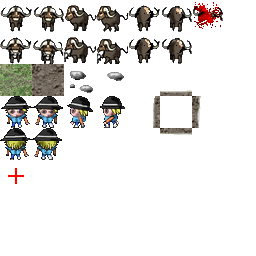
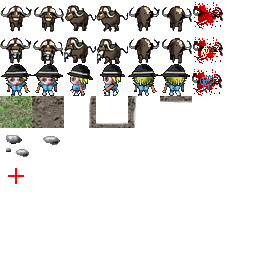
Art changes

Changed region(s): [[0.0, 0.25, 0.875, 0.625], [0.75, 0.1562, 0.875, 0.25], [0.625, 0.5, 0.75, 0.5312]]

diff --git a/guano/Man.cpp b/guano/Man.cpp
@@ -4,19 +4,18 @@
 #include "Gamepad.h"
 #include "Sprite.h"
 
-#define kManFrame 24
-#define kCrosshairFrame	32
-
 #define kMoveSpeed	7
 #define kAimDistance 150
 
 // so autocomplete works
 #include <SDL_opengl.h>
 
+
 Man::Man() {
 	m_pos = vector2f(100,100);
 	m_aim = vector2f(0,0);
 	m_ready = false;
+	m_facing = Facing_South;
 };
 
 Man::~Man() {
@@ -26,7 +25,25 @@ Man::~Man() {
 void Man::render(Sprite2d* sprite) {
 	glPushMatrix();
 		glTranslatef(m_pos.x, m_pos.y, 0);
-		sprite->draw(kManFrame);
+	
+	switch (m_facing) {
+		case Facing_South:
+			sprite->draw(kManFrame);
+			break;
+		case Facing_West:
+			sprite->draw(kManFrame+2);
+			break;
+		case Facing_North:
+			sprite->draw(kManFrame+4);
+			break;
+		case Facing_East:
+			glPushMatrix();
+			glTranslatef(32, 0, 0);
+			glScalef(-1, 1, 1);
+			sprite->draw(kManFrame+2);
+			glPopMatrix();
+			break;
+	}
 	
 		if (m_ready) {
 			glTranslatef(m_aim.x*kAimDistance, m_aim.y*kAimDistance, 0);
@@ -44,16 +61,12 @@ void Man::render(Sprite2d* sprite) {
 //		glVertex3f( -0.5f, -0.5f, 0.0f);
 //		glVertex3f( -0.5f, +0.5f, 0.0f);
 //	glEnd();
-	
-	
-	
+
 }
 
 void Man::update(uint32_t elapsedMs, Gamepad* gamepad) {
 	vector2f walk = vector2f(gamepad->getX1(), gamepad->getY1());
 	vector2f face = vector2f(gamepad->getX2(), gamepad->getY2());
-	
-	printf("%2.2f, %2.2f\n", walk.length(), face.length());
 	
 	if (walk.length() > 5000) {
 		m_pos += walk.normalized()*kMoveSpeed;
@@ -62,6 +75,17 @@ void Man::update(uint32_t elapsedMs, Gamepad* gamepad) {
 	if (face.length() > 5000) {
 		m_aim = face.normalized();
 		m_ready = true;
+		
+		static const float kThird = 1.0/3.0;
+		if (m_aim.y < -kThird) {
+			m_facing = Facing_North;
+		} else if (m_aim.y > kThird) {
+			m_facing = Facing_South;
+		} else if (m_aim.x < 0) {
+			m_facing = Facing_West;
+		} else {
+			m_facing = Facing_East;
+		}
 	} else {
 		m_ready = false;
 	}

diff --git a/guano/Buffalo.cpp b/guano/Buffalo.cpp
@@ -1,6 +1,7 @@
 #include "Buffalo.h"
 #include "Gamepad.h"
 #include "Sprite.h"
+#include "Terrain.h"
 
 Buffalo herd[kMaxBuffalo];
 
@@ -13,15 +14,14 @@ void buffInit() {
 void buffReset() {
 	for (int i=0; i<kMaxBuffalo; ++i) {
 		herd[i].bActive = true;
-		herd[i].pos = vector2f(100,100);
-		herd[i].rad = 10;
+		herd[i].pos = vector2f((rand()%kWorldWidth)*32,(rand()%kWorldHeight)*32);
+		herd[i].rad = 12;
 	}
 }
 
 void buffRender(Sprite2d* sprite) {
 	glPushMatrix();
 		glTranslatef(100, 100, 0);
-	glScalef(10, 10, 0);
 		sprite->draw(mFrame);
 	glPopMatrix();
 	

diff --git a/guano/main.h b/guano/main.h
@@ -42,6 +42,17 @@
 
 #define kParticleSize			8
 
+
+// art constants
+#define kBuffaloFrame		0
+#define kOldBuffaloFrame	8
+#define kManFrame			16
+#define kGrassFrame			24
+#define kDirtFrame			25
+#define kRockFrame			32
+#define kCrosshairFrame		40
+
+
 // helper functions
 class Mix_Chunk;
 void initVideo();

diff --git a/guano/Gamepad.cpp b/guano/Gamepad.cpp
@@ -38,7 +38,7 @@ void Gamepad::poll()
 		static const int deadzone = 5000;
 		static const int buttmap[4][2] ={	{0, GAMEPAD_A},
 											{1, GAMEPAD_B},
-											{7, GAMEPAD_X},
+											{5, GAMEPAD_X},
 											{3, GAMEPAD_Y}	};
 		
 		x1 = SDL_JoystickGetAxis(joy, 0);

diff --git a/guano/Terrain.cpp b/guano/Terrain.cpp
@@ -3,14 +3,6 @@
 #include "Sprite.h"
 #include "Game.h"
 
-// art frame position in sprite sheet
-#define kGrassFrame 16
-#define kDirtFrame	17
-#define kRockFrame	18
-
-#define kWorldWidth		50
-#define kWorldHeight	50
-
 
 static struct {
 	uint8_t tile;

diff --git a/guano/Buffalo.h b/guano/Buffalo.h
@@ -10,6 +10,13 @@ typedef struct Buffalo {
 	vector2f pos;
 	float rad;
 	bool bActive;
+	
+	enum {
+		Facing_South,
+		Facing_West,
+		Facing_North,
+		Facing_East
+	} m_facing;	
 };
 
 extern Buffalo herd[kMaxBuffalo];

diff --git a/guano/Man.h b/guano/Man.h
@@ -17,6 +17,13 @@ public:
 	vector2f m_pos;
 	vector2f m_aim;
 	bool m_ready;
+	
+	enum {
+		Facing_South,
+		Facing_West,
+		Facing_North,
+		Facing_East
+	} m_facing;
 };
 
 #endif

diff --git a/guano/Terrain.h b/guano/Terrain.h
@@ -7,6 +7,10 @@ class Sprite2d;
 
 #define	kMaxObstacles 10
 
+#define kWorldWidth		50
+#define kWorldHeight	50
+
+
 typedef struct Obstacle {
 	vector2f pos;
 	float rad;

diff --git a/guano/Game.h b/guano/Game.h
@@ -2,7 +2,6 @@
 #define _GAME_H_INCLUDED
 
 #include "main.h"
-
 class Gamepad;
 class Sprite2d;
 class Man;
